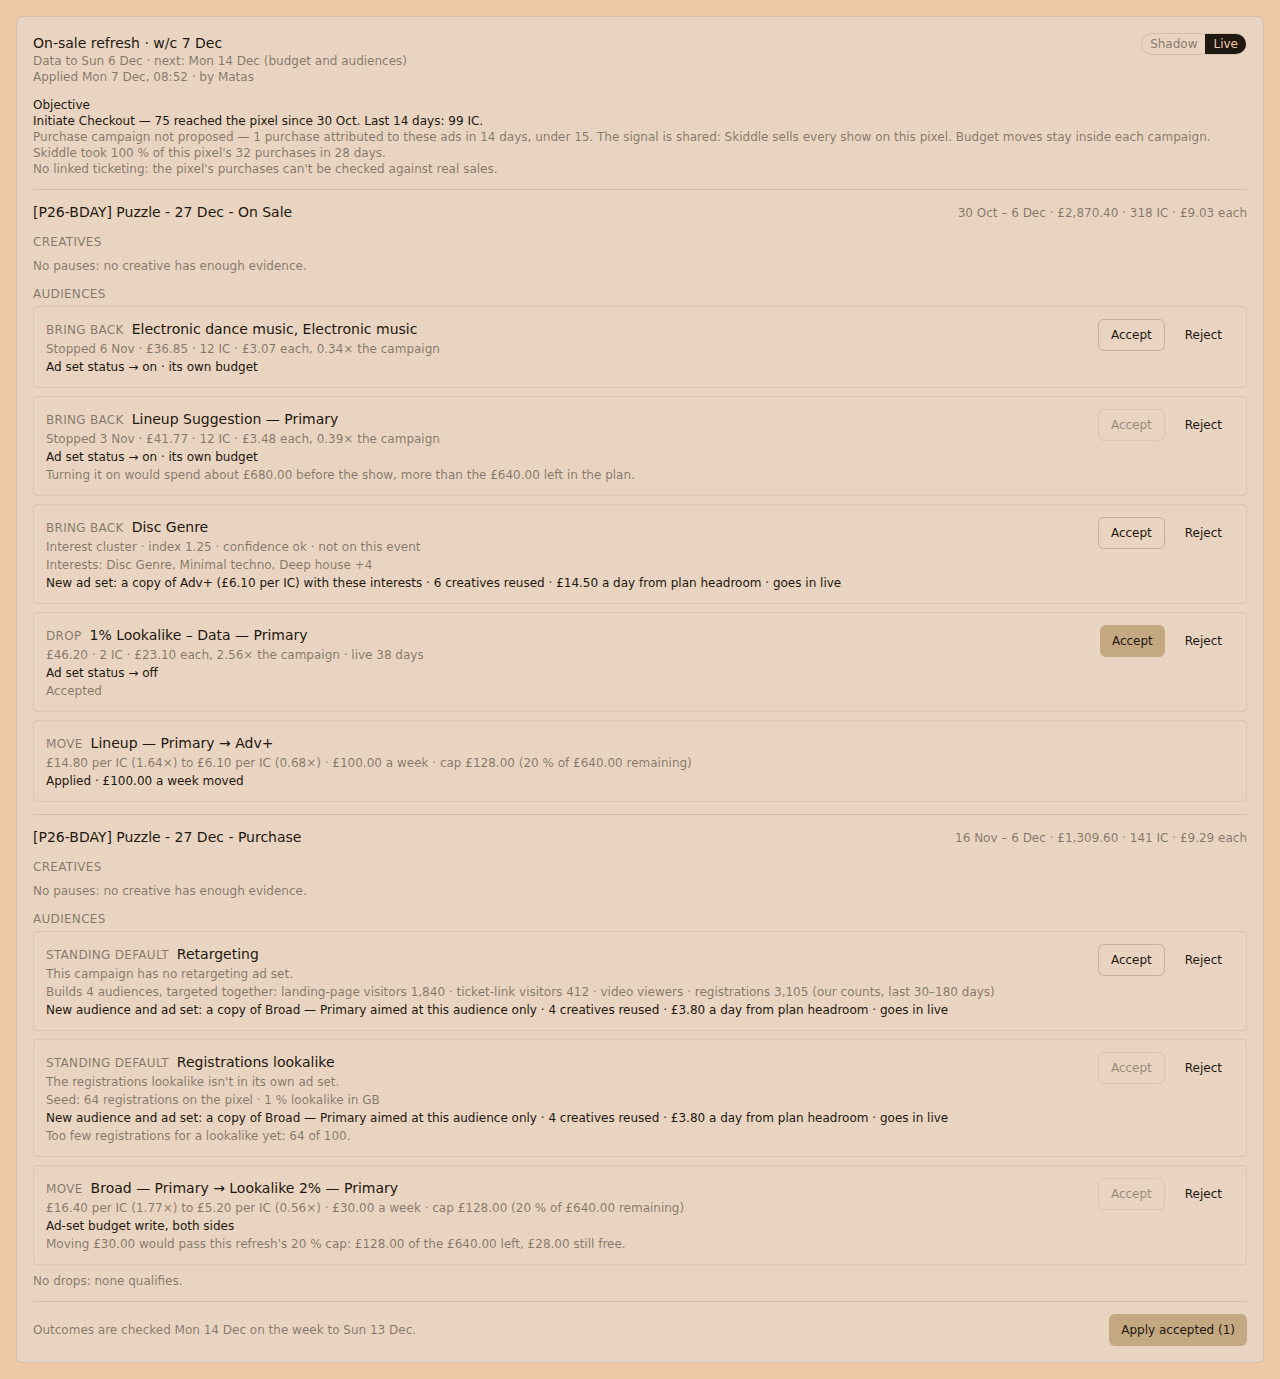
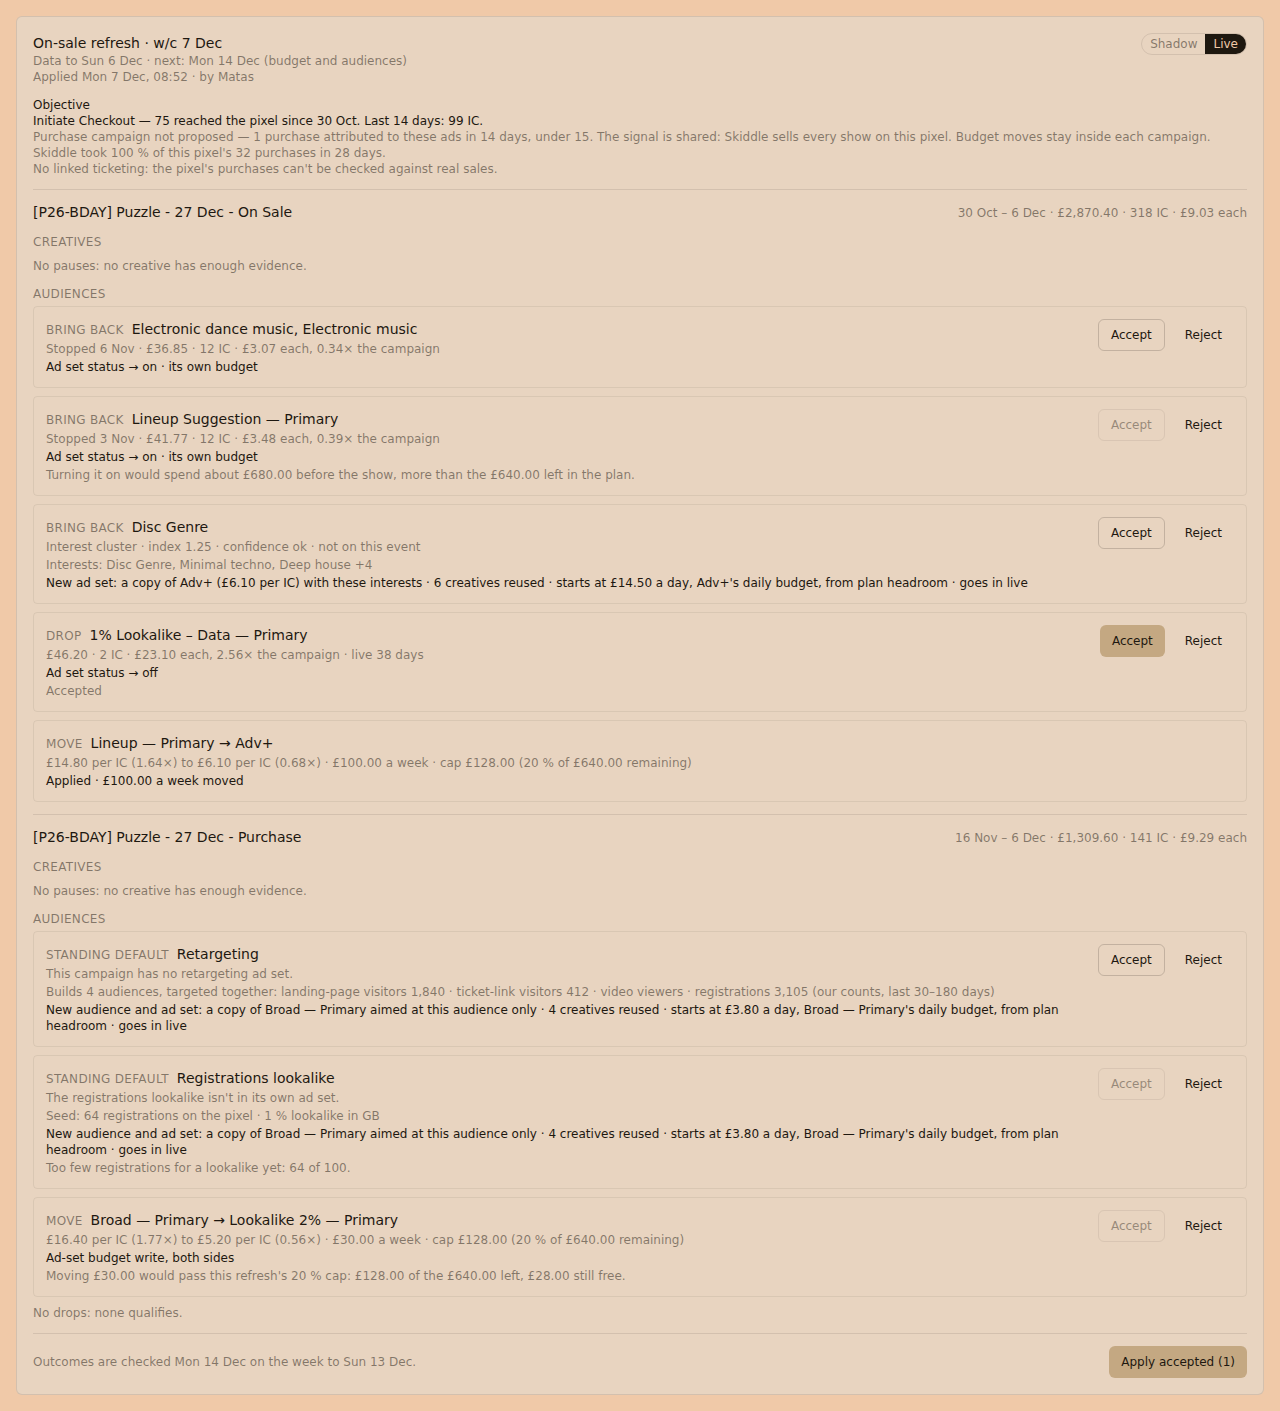
On-sale refresh: a new ad set's line shows the start amount Apply writes (#1269)
* On-sale refresh: a new ad set's line shows the start amount Apply writes

Design (16 Nov): "starts at £{daily} a day, {ad set}'s daily budget" — the
copied ad set's daily budget from the purchase read's batch, which Apply
writes as the new ad set's daily_budget and funds on. The funding (headroom,
move, none) and Accept's re-check now size on that figure too
(write.copyFrom.dailyGbp). Recent spend sits beside it in the wide line only,
marked "(recent spend £x a day)", and only where it differs. Under a campaign
budget the line keeps "shares the campaign budget"; not read, the line names
no start figure. OR8 / OR9 frame fixtures carry the new words.

* On-sale refresh: design's punctuation for the start amount; OR9's fixture back as on main

- "from plan headroom" follows the start with a comma only after the
  "{ad set}'s daily budget" clause (wide, budget read). Narrow and not-read
  lines read "starts at £14.50 a day from plan headroom" / "starts at Adv+'s
  daily budget from plan headroom". Moves keep ", moved from {giver}".
- OR9's Melodic Techno line keeps main's literal strings (OR9 must not
  change); only OR8's fixtures carry the new words.

* Frames: OR8 baselines from CI artifact 14235508703 (run 43889031442)

Committed byte for byte from the plan-frames artifact at d188680, after
design passed #1269. OR9 is unchanged (matches main).

- OR8-1280 21480d4184219aa8568fbea8382bba3a557fa3fdebce4fc757dec0fd9b92dc8d (1280x1411)
[…]

diff --git a/lib/onsale-refresh/__tests__/start-amount.test.ts b/lib/onsale-refresh/__tests__/start-amount.test.ts
@@ -1,0 +1,131 @@
+/**
+ * A new ad set's line shows what Apply writes (design, 16 Nov): "starts at
+ * £{daily} a day, {ad set}'s daily budget" — the copied ad set's daily
+ * budget, read in the purchase read's ad-set batch, which Apply writes as the
+ * new ad set's daily_budget and funds on. Recent spend sits beside it only
+ * marked as spend, never as the start amount. Under a campaign budget Apply
+ * writes no ad-set budget: "shares the campaign budget".
+ */
+
+import assert from "node:assert/strict";
+import { describe, it } from "node:test";
+
+import { weeklyMoved, type Funding } from "../new-adset.ts";
+import { ONSALE_PHASE } from "../phase-config.ts";
+import { audienceLines, type AdSetInput, type CampaignInput, type ClusterInput } from "../rules.ts";
+import { planRun } from "../schedule.ts";
+
+const PLAN = planRun({ day: "2026-11-16", eventDate: "2026-12-27", config: ONSALE_PHASE, shadow: true });
+
+type Meta = NonNullable<AdSetInput["meta"]>;
+const DAILY = (minor: number): Meta => ({ dailyBudgetMinor: minor, lifetimeBudgetMinor: null, pixelId: "645185673672763" });
+const CBO: Meta = { dailyBudgetMinor: null, lifetimeBudgetMinor: null, pixelId: "645185673672763" };
+
+function adSet(overrides: Partial<AdSetInput> & Pick<AdSetInput, "adsetId" | "name">): AdSetInput {
+  return { adsetIds: [overrides.adsetId], firstDay: "2026-10-30", lastDay: "2026-11-15", weekSpend: 40, weekResults: 5, totalSpend: 100, totalResults: 12, delivering: true, recentDailySpend: 5, deliveringAds: 3, ...overrides };
+}
+
+const CLUSTER: ClusterInput = { id: "k1", name: "Disc Genre", client: "Puzzle", index: 0.7, confidence: 0.5, confidenceWord: "ok", usedOnEvent: false, interestList: [{ id: "601", name: "Disc Genre" }] };
+
+/** Adv+ (£1.50 per IC, £5.00 a day recent spend) is the copy; Lineup the giver. */
+function input(meta: { adv?: Meta; broad?: Meta; lineup?: Meta } = {}, extra: Partial<CampaignInput> = {}): CampaignInput {
+  return {
+    eventId: "e1",
+    eventCode: "P26-BDAY",
+    eventName: "Puzzle 4th Birthday",
+    campaignKey: "[P26-BDAY] Puzzle - 27 Dec - On Sale",
+    campaignIds: ["c1"],
+    adAccountId: "act_9",
+    draft: { draftId: "d1", adAccountId: "act_9", copy: null, budgetLevel: "ad_set" },
+    eventDate: "2026-12-27",
+    signup: { event: "CompleteRegistration", registrations180: 420, landing30: 300, ticket30: 40 },
+    country: "GB",
+    landingUrl: "https://puzzle.crqln.com/l/p26-bday",
+    ticketUrl: "https://www.skiddle.com/e/41234567/",
+    videoPlays: 900,
+    onSaleDay: "2026-10-30",
+    plan: PLAN,
+    resultEvent: "initiate_checkout",
+    weekSpend: 100,
+    weekResults: 32,
+    totalSpend: 600,
+    totalResults: 200,
+    totalFirstDay: "2026-10-29",
+    ads: [],
+    adSets: [
+      adSet({ adsetId: "adv", name: "Adv+", weekSpend: 30, weekResults: 20, ...(meta.adv ? { meta: meta.adv } : {}) }),
+      adSet({ adsetId: "broad", name: "Broad", weekSpend: 40, weekResults: 10, ...(meta.broad ? { meta: meta.broad } : {}) }),
+      adSet({ adsetId: "lineup", name: "Lineup — Primary", weekSpend: 30, weekResults: 2, ...(meta.lineup ? { meta: meta.lineup } : {}) }),
+    ],
+    clusters: [CLUSTER],
+    supply: [],
+    claims: [],
+    budgetGbp: 4500,
+    spendToDateGbp: 2123.58,
+    ticketingLinked: false,
+    ticketingProvider: null,
+    last14: { ic: 60, purchases: 0, lpv: 0 },
+    sinceOnSale: { ic: 200, purchases: 0, fromDay: "2026-10-30" },
+    ...extra,
+  };
+}
+
+const lines = (i: CampaignInput) => audienceLines(i, ONSALE_PHASE).lines;
+const of = (i: CampaignInput, ruleId: string) => lines(i).find((line) => line.ruleId === ruleId)!;
+
+describe("a new ad set's line: the start amount Apply writes", () => {
+  it("headroom: starts at the copied ad set's daily budget; recent spend beside it, marked as spend", () => {
+    const i = input({ adv: DAILY(1450), broad: DAILY(2000), lineup: DAILY(2000) });
+    const retargeting = of(i, "missing_default.retargeting");
+    assert.deepEqual(retargeting.evidence.funding, { mode: "headroom", dailyGbp: 14.5 });
+    assert.equal(retargeting.writeText, "New audience and ad set: a copy of Adv+ aimed at this audience only · 3 creatives reused · starts at £14.50 a day, Adv+'s daily budget, from plan headroom (recent spend £5.00 a day) · goes in live");
+    assert.equal(retargeting.narrow.writeText, "New audience and ad set from Adv+ · starts at £14.50 a day from plan headroom · live");
+    const cluster = of(i, "bring_back.client_cluster");
+    assert.equal(cluster.writeText, "New ad set: a copy of Adv+ (£1.50 per IC) with these interests · 3 creatives reused · starts at £14.50 a day, Adv+'s daily budget, from plan headroom (recent spend £5.00 a day) · goes in live");
+    assert.equal(cluster.narrow.writeText, "New ad set from Adv+ · starts at £14.50 a day from plan headroom · live");
+    // Accept re-decides the funding on write.copyFrom.dailyGbp: the figure Apply writes, not the spend.
+    assert.equal((retargeting.write!.copyFrom as { dailyGbp: number }).dailyGbp, 14.5);
+  });
+
+  it("move: the same start amount, moved from the giver; a week of it counts against the cap; spend equal to it isn't repeated", () => {
+    // £200 left: £5.00 a day to the show doesn't fit headroom, a week (£35) fits the £40 cap.
+    const i = input({ adv: DAILY(500), broad: DAILY(2000), lineup: DAILY(2000) }, { spendToDateGbp: 4300 });
+    const line = of(i, "missing_default.retargeting");
+    const funding = line.evidence.funding as Funding;
+    assert.deepEqual(funding, { mode: "move", dailyGbp: 5, fromAdsetId: "lineup", fromName: "Lineup — Primary" });
+    assert.equal(weeklyMoved(funding), 35);
+    assert.equal(line.writeText, "New audience and ad set: a copy of Adv+ aimed at this audience only · 3 creatives reused · starts at £5.00 a day, Adv+'s daily budget, moved from Lineup — Primary · goes in live");
+    assert.equal(line.narrow.writeText, "New audience and ad set from Adv+ · starts at £5.00 a day, moved from Lineup — Primary · live");
+  });
+
+  it("the start amount, not the spend, decides the funding: £14.50 a day doesn't fit £200 of headroom or the £40 cap", () => {
+    const line = of(input({ adv: DAILY(1450), broad: DAILY(2000), lineup: DAILY(2000) }, { spendToDateGbp: 4300 }), "missing_default.retargeting");
+    assert.deepEqual(line.evidence.funding, { mode: "none" }, "on the £5.00 spend it would have read as a move");
+    assert.equal(line.writeText, "New audience and ad set: a copy of Adv+ aimed at this audience only · 3 creatives reused · no budget yet · goes in live");
+    assert.equal(line.narrow.writeText, "New audience and ad set from Adv+ · no budget yet · live");
+    assert.match(line.blockedReason ?? "", /^No budget to start it/);
+  });
+
+  it("campaign budget: Apply writes no ad-set budget, so it shares the campaign's; no spend shown", () => {
+    const i = input({ adv: CBO, broad: CBO, lineup: CBO });
+    for (const ruleId of ["missing_default.retargeting", "missing_default.registrations_lookalike", "bring_back.client_cluster"]) {
+      const line = of(i, ruleId);
+      assert.deepEqual(line.evidence.funding, { mode: "cbo" }, ruleId);
+      assert.match(line.writeText, / · shares the campaign budget · goes in live$/, ruleId);
+      assert.match(line.narrow.writeText ?? "", / · shares the campaign budget · live$/, ruleId);
+      assert.doesNotMatch(line.writeText, /starts at|recent spend/, ruleId);
+    }
+  });
+
+  it("the budget not read, moved: the move keeps its comma", () => {
+    const line = of(input({}, { spendToDateGbp: 4300 }), "missing_default.retargeting");
+    assert.equal((line.evidence.funding as Funding).mode, "move");
+    assert.equal(line.narrow.writeText, "New audience and ad set from Adv+ · starts at Adv+'s daily budget, moved from Lineup — Primary · live");
+  });
+
+  it("the budget not read: no figure is named as the start; the spend shows only as spend", () => {
+    const line = of(input(), "missing_default.retargeting");
+    assert.equal(line.writeText, "New audience and ad set: a copy of Adv+ aimed at this audience only · 3 creatives reused · starts at Adv+'s daily budget from plan headroom (recent spend £5.00 a day) · goes in live");
+    assert.equal(line.narrow.writeText, "New audience and ad set from Adv+ · starts at Adv+'s daily budget from plan headroom · live");
+  });
+});

diff --git a/lib/onsale-refresh/new-adset.ts b/lib/onsale-refresh/new-adset.ts
@@ -45,7 +45,19 @@ export type Funding =
   | { mode: "move"; dailyGbp: number; fromAdsetId: string; fromName: string }
   | { mode: "none" };
 
-export type CopySource = { adsetId: string; name: string; cprGbp: number | null; resultLabel: string; dailyGbp: number; creatives: number };
+export type CopySource = {
+  adsetId: string;
+  name: string;
+  cprGbp: number | null;
+  resultLabel: string;
+  /** What the new ad set starts at, £ a day, and what funding sizes on: the copied ad set's daily budget when read (what Apply writes), else its recent spend. */
+  dailyGbp: number;
+  creatives: number;
+  /** The copied ad set's daily budget as the batch read saw it, £ (Apply writes it as the new ad set's daily_budget); null or absent = not read, or none. */
+  dailyBudgetGbp?: number | null;
+  /** Its spend over its last 7 days of delivery, per day, £: shown beside the start amount, marked as spend. */
+  recentSpendGbp?: number;
+};
 
 export type Giver = { adsetId: string; name: string };
 
@@ -86,12 +98,22 @@ export function decideFunding(args: {
   return { mode: "none" };
 }
 
-/** `{budget}` in the write line. */
-export function budgetText(funding: Funding): string {
+/** The start amount: what Apply writes as the new ad set's daily budget (the copied ad set's), with the figure when it was read. */
+function startText(copy: Pick<CopySource, "name" | "dailyBudgetGbp"> | null | undefined, narrow: boolean): string {
+  if (copy?.dailyBudgetGbp != null) return narrow ? `starts at ${gbp(copy.dailyBudgetGbp)} a day` : `starts at ${gbp(copy.dailyBudgetGbp)} a day, ${copy.name}'s daily budget`;
+  return copy ? `starts at ${copy.name}'s daily budget` : "starts at the copied ad set's daily budget";
+}
+
+/** `{budget}` in the write line. Under a campaign budget Apply writes no ad-set budget: it shares the campaign's. */
+export function budgetText(funding: Funding, copy?: Pick<CopySource, "name" | "dailyBudgetGbp" | "recentSpendGbp"> | null, opts: { narrow?: boolean } = {}): string {
   if (funding.mode === "cbo") return "shares the campaign budget";
-  if (funding.mode === "headroom") return `${gbp(funding.dailyGbp)} a day from plan headroom`;
-  if (funding.mode === "move") return `${gbp(funding.dailyGbp)} a day moved from ${funding.fromName}`;
-  return "no budget yet";
+  if (funding.mode === "none") return "no budget yet";
+  const from = funding.mode === "headroom" ? "from plan headroom" : `moved from ${funding.fromName}`;
+  // Recent spend sits beside the start amount, marked as spend, only where it says something the start amount doesn't (wide only).
+  const spend = !opts.narrow && copy?.recentSpendGbp != null && (copy.dailyBudgetGbp == null || Math.abs(copy.recentSpendGbp - copy.dailyBudgetGbp) >= 0.005) ? ` (recent spend ${gbp(copy.recentSpendGbp)} a day)` : "";
+  // Design (16 Nov): "from plan headroom" follows the start with a comma only after the "{ad set}'s daily budget" clause (wide, read); a move keeps its comma.
+  const joint = funding.mode === "move" || (!opts.narrow && copy?.dailyBudgetGbp != null) ? ", " : " ";
+  return `${startText(copy, Boolean(opts.narrow))}${joint}${from}${spend}`;
 }
 
 /** A week of a moved daily budget: what counts against the 20 % cap. */
@@ -127,11 +149,11 @@ export function clusterNarrow(index: number, n: number): string {
 
 export function clusterWrite(copy: CopySource, funding: Funding): string {
   const cpr = copy.cprGbp == null ? "" : ` (${gbp(copy.cprGbp)} per ${copy.resultLabel})`;
-  return `New ad set: a copy of ${copy.name}${cpr} with these interests · ${copy.creatives} creative${copy.creatives === 1 ? "" : "s"} reused · ${budgetText(funding)} · goes in live`;
+  return `New ad set: a copy of ${copy.name}${cpr} with these interests · ${copy.creatives} creative${copy.creatives === 1 ? "" : "s"} reused · ${budgetText(funding, copy)} · goes in live`;
 }
 
 export function newAdSetNarrowWrite(copy: CopySource, funding: Funding): string {
-  return `New ad set from ${copy.name} · ${budgetText(funding)} · live`;
+  return `New ad set from ${copy.name} · ${budgetText(funding, copy, { narrow: true })} · live`;
 }
 
 export function defaultWhy(which: "retargeting" | "registrations_lookalike"): string {
@@ -157,11 +179,11 @@ export function lookalikeEvidence(seed: number, country: string): string {
 }
 
 export function defaultWrite(copy: CopySource, funding: Funding): string {
-  return `New audience and ad set: a copy of ${copy.name} aimed at this audience only · ${copy.creatives} creative${copy.creatives === 1 ? "" : "s"} reused · ${budgetText(funding)} · goes in live`;
+  return `New audience and ad set: a copy of ${copy.name} aimed at this audience only · ${copy.creatives} creative${copy.creatives === 1 ? "" : "s"} reused · ${budgetText(funding, copy)} · goes in live`;
 }
 
 export function defaultNarrowWrite(copy: CopySource, funding: Funding): string {
-  return `New audience and ad set from ${copy.name} · ${budgetText(funding)} · live`;
+  return `New audience and ad set from ${copy.name} · ${budgetText(funding, copy, { narrow: true })} · live`;
 }
 
 /** The new ad set's name († design's default). */

diff --git a/scripts/plan-frames/refresh-fixtures.ts b/scripts/plan-frames/refresh-fixtures.ts
@@ -245,8 +245,8 @@ export const OR1_PROPOSALS: PanelProposal[] = [
  * On Sale campaign. On Sale: one bring-back acceptable (£9.10 a day × 20 =
  * £182.00), one held by the plan guard (£34.00 × 20 = £680.00), the drop
  * accepted, the move applied, and the interest cluster as a new ad set
- * copied from Adv+ (£14.50 a day from plan headroom). Purchase: the
- * retargeting standing default (£3.80 a day from plan headroom), the
+ * copied from Adv+ (starts at £14.50 a day from plan headroom). Purchase: the
+ * retargeting standing default (starts at £3.80 a day from plan headroom), the
  * registrations lookalike held at a seed of 64, and a move into its
  * lookalike set held by the cap (£30.00 > £28.00 free). The Purchase
  * campaign has no retargeting ad set, so nothing in it names one. Cluster
@@ -402,20 +402,20 @@ export const OR8_CLUSTER = {
   detail: "Interest cluster · index 1.25 · confidence ok · not on this event",
   extra: "Interests: Disc Genre, Minimal techno, Deep house +4",
   narrow: "Cluster · index 1.25 · 7 interests",
-  write: "New ad set: a copy of Adv+ (£6.10 per IC) with these interests · 6 creatives reused · £14.50 a day from plan headroom · goes in live",
-  narrowWrite: "New ad set from Adv+ · £14.50 a day from plan headroom · live",
+  write: "New ad set: a copy of Adv+ (£6.10 per IC) with these interests · 6 creatives reused · starts at £14.50 a day, Adv+'s daily budget, from plan headroom · goes in live",
+  narrowWrite: "New ad set from Adv+ · starts at £14.50 a day from plan headroom · live",
 };
 export const OR8_RETARGETING = {
   detail: "This campaign has no retargeting ad set.",
   extra: "Builds 4 audiences, targeted together: landing-page visitors 1840 · ticket-link visitors 412 · video viewers · registrations 3105 (our counts, last 30–180 days)",
-  write: "New audience and ad set: a copy of Broad — Primary aimed at this audience only · 4 creatives reused · £3.80 a day from plan headroom · goes in live",
-  narrowWrite: "New audience and ad set from Broad — Primary · £3.80 a day from plan headroom · live",
+  write: "New audience and ad set: a copy of Broad — Primary aimed at this audience only · 4 creatives reused · starts at £3.80 a day, Broad — Primary's daily budget, from plan headroom · goes in live",
+  narrowWrite: "New audience and ad set from Broad — Primary · starts at £3.80 a day from plan headroom · live",
 };
 export const OR8_LOOKALIKE = {
   detail: "The registrations lookalike isn't in its own ad set.",
   extra: "Seed: 64 registrations on the pixel · 1 % lookalike in GB",
-  write: "New audience and ad set: a copy of Broad — Primary aimed at this audience only · 4 creatives reused · £3.80 a day from plan headroom · goes in live",
-  narrowWrite: "New audience and ad set from Broad — Primary · £3.80 a day from plan headroom · live",
+  write: "New audience and ad set: a copy of Broad — Primary aimed at this audience only · 4 creatives reused · starts at £3.80 a day, Broad — Primary's daily budget, from plan headroom · goes in live",
+  narrowWrite: "New audience and ad set from Broad — Primary · starts at £3.80 a day from plan headroom · live",
 };
 
 const OR8_WEEK = { runKind: "cycle" as const, runDay: "2026-12-07", cycleMonday: "2026-12-07", cycleKind: "content" as const, windowStart: "2026-11-30", windowEnd: "2026-12-06", nextCheck: "2026-12-14", nextCycle: null, nextCycleKind: null, watch: { creatives: [], audiences: [] } };

diff --git a/lib/onsale-refresh/__tests__/p3-adsets.test.ts b/lib/onsale-refresh/__tests__/p3-adsets.test.ts
@@ -190,9 +190,10 @@ describe("P3 new ad sets: money (design's ruling) — CBO shares, ABO headroom, 
     // The same with £150 of the cap already moved → none.
     assert.equal(decideFunding({ ...base, dailyGbp: 14.5, spend: 3500, appliedMovesGbp: 150, eventDate: "2027-02-25" }).mode, "none");
     assert.equal(decideFunding({ ...base, dailyGbp: 14.5, spend: 0, budget: null, appliedMovesGbp: 0 }).mode, "none", "ABO with no budget: none");
-    assert.equal(budgetText({ mode: "cbo" }), "shares the campaign budget");
-    assert.equal(budgetText({ mode: "headroom", dailyGbp: 14.5 }), "£14.50 a day from plan headroom");
-    assert.equal(budgetText({ mode: "move", dailyGbp: 14.5, fromAdsetId: "302", fromName: "Lineup — Primary" }), "£14.50 a day moved from Lineup — Primary");
+    const adv = { name: "Adv+", dailyBudgetGbp: 14.5 };
+    assert.equal(budgetText({ mode: "cbo" }, adv), "shares the campaign budget");
+    assert.equal(budgetText({ mode: "headroom", dailyGbp: 14.5 }, adv), "starts at £14.50 a day, Adv+'s daily budget, from plan headroom");
+    assert.equal(budgetText({ mode: "move", dailyGbp: 14.5, fromAdsetId: "302", fromName: "Lineup — Primary" }, adv), "starts at £14.50 a day, Adv+'s daily budget, moved from Lineup — Primary");
   });
 
   it("CBO: the copy shares the campaign budget — no daily_budget, no bid strategy, no giver write", async () => {
@@ -472,10 +473,10 @@ describe("P3: registrations are the page's own signup event on the pixel, read, 
 
 describe("P3 new ad sets: design's words, and OR8 / OR9's", () => {
   it("the cluster's and the defaults' lines", () => {
-    const copy = { adsetId: "303", name: "Adv+", cprGbp: 6.1, resultLabel: "IC", dailyGbp: 14.5, creatives: 6 };
+    const copy = { adsetId: "303", name: "Adv+", cprGbp: 6.1, resultLabel: "IC", dailyGbp: 14.5, creatives: 6, dailyBudgetGbp: 14.5, recentSpendGbp: 14.5 };
     assert.equal(clusterWrite(copy, { mode: "headroom", dailyGbp: 14.5 }), OR8_CLUSTER.write);
     assert.equal(interestsLine(["Disc Genre", "Minimal techno", "Deep house", "a", "b", "c", "d"]), OR8_CLUSTER.extra);
-    assert.equal(defaultWrite({ ...copy, name: "Broad — Primary", creatives: 4 }, { mode: "headroom", dailyGbp: 3.8 }), OR8_RETARGETING.write);
+    assert.equal(defaultWrite({ ...copy, name: "Broad — Primary", creatives: 4, dailyGbp: 3.8, dailyBudgetGbp: 3.8, recentSpendGbp: 3.8 }, { mode: "headroom", dailyGbp: 3.8 }), OR8_RETARGETING.write);
     assert.equal(retargetingEvidence({ landing: 1840, ticket: 412, registrations: 3105 }), OR8_RETARGETING.extra);
     assert.equal(lookalikeEvidence(64, "GB"), OR8_LOOKALIKE.extra);
     assert.equal(appliedNewAdSet("retargeting", 4, [], 4), OR9_RESULTS.retargeting);

diff --git a/lib/onsale-refresh/rules.ts b/lib/onsale-refresh/rules.ts
@@ -702,13 +702,17 @@ function newAdSetContext(input: CampaignInput): NewSetContext {
     const only = pickCopySource(input.adSets, input.plan.window.end);
     return { copy: null, giver: null, funding: { mode: "none" }, budgetLevel, ...(only ? { lifetimeCopy: { adsetId: only.adsetId, name: only.name } } : {}) };
   }
+  const spendGbp = round2(source.recentDailySpend ?? source.weekSpend / 7);
   const copy: CopySource = {
     adsetId: source.adsetId,
     name: source.name,
     cprGbp: source.weekResults > 0 ? round2(source.weekSpend / source.weekResults) : null,
     resultLabel: label,
-    dailyGbp: round2(source.recentDailySpend ?? source.weekSpend / 7),
+    // What Apply writes: the copied ad set's daily budget (read in the batch); not read, its recent spend sizes the funding and the line names no figure.
+    dailyGbp: read?.dailyBudgetMinor != null ? read.dailyBudgetMinor / 100 : spendGbp,
     creatives: Math.max(1, Math.min(MAX_REUSED_CREATIVES, source.deliveringAds ?? 1)),
+    dailyBudgetGbp: read?.dailyBudgetMinor != null ? read.dailyBudgetMinor / 100 : null,
+    recentSpendGbp: spendGbp,
   };
   // A giver Apply can take from: an ad-set daily budget (not CBO, not lifetime) that stays at £1.00 a day after giving the copy's daily budget.
   const takes = read?.dailyBudgetMinor ?? Math.round(copy.dailyGbp * 100);
